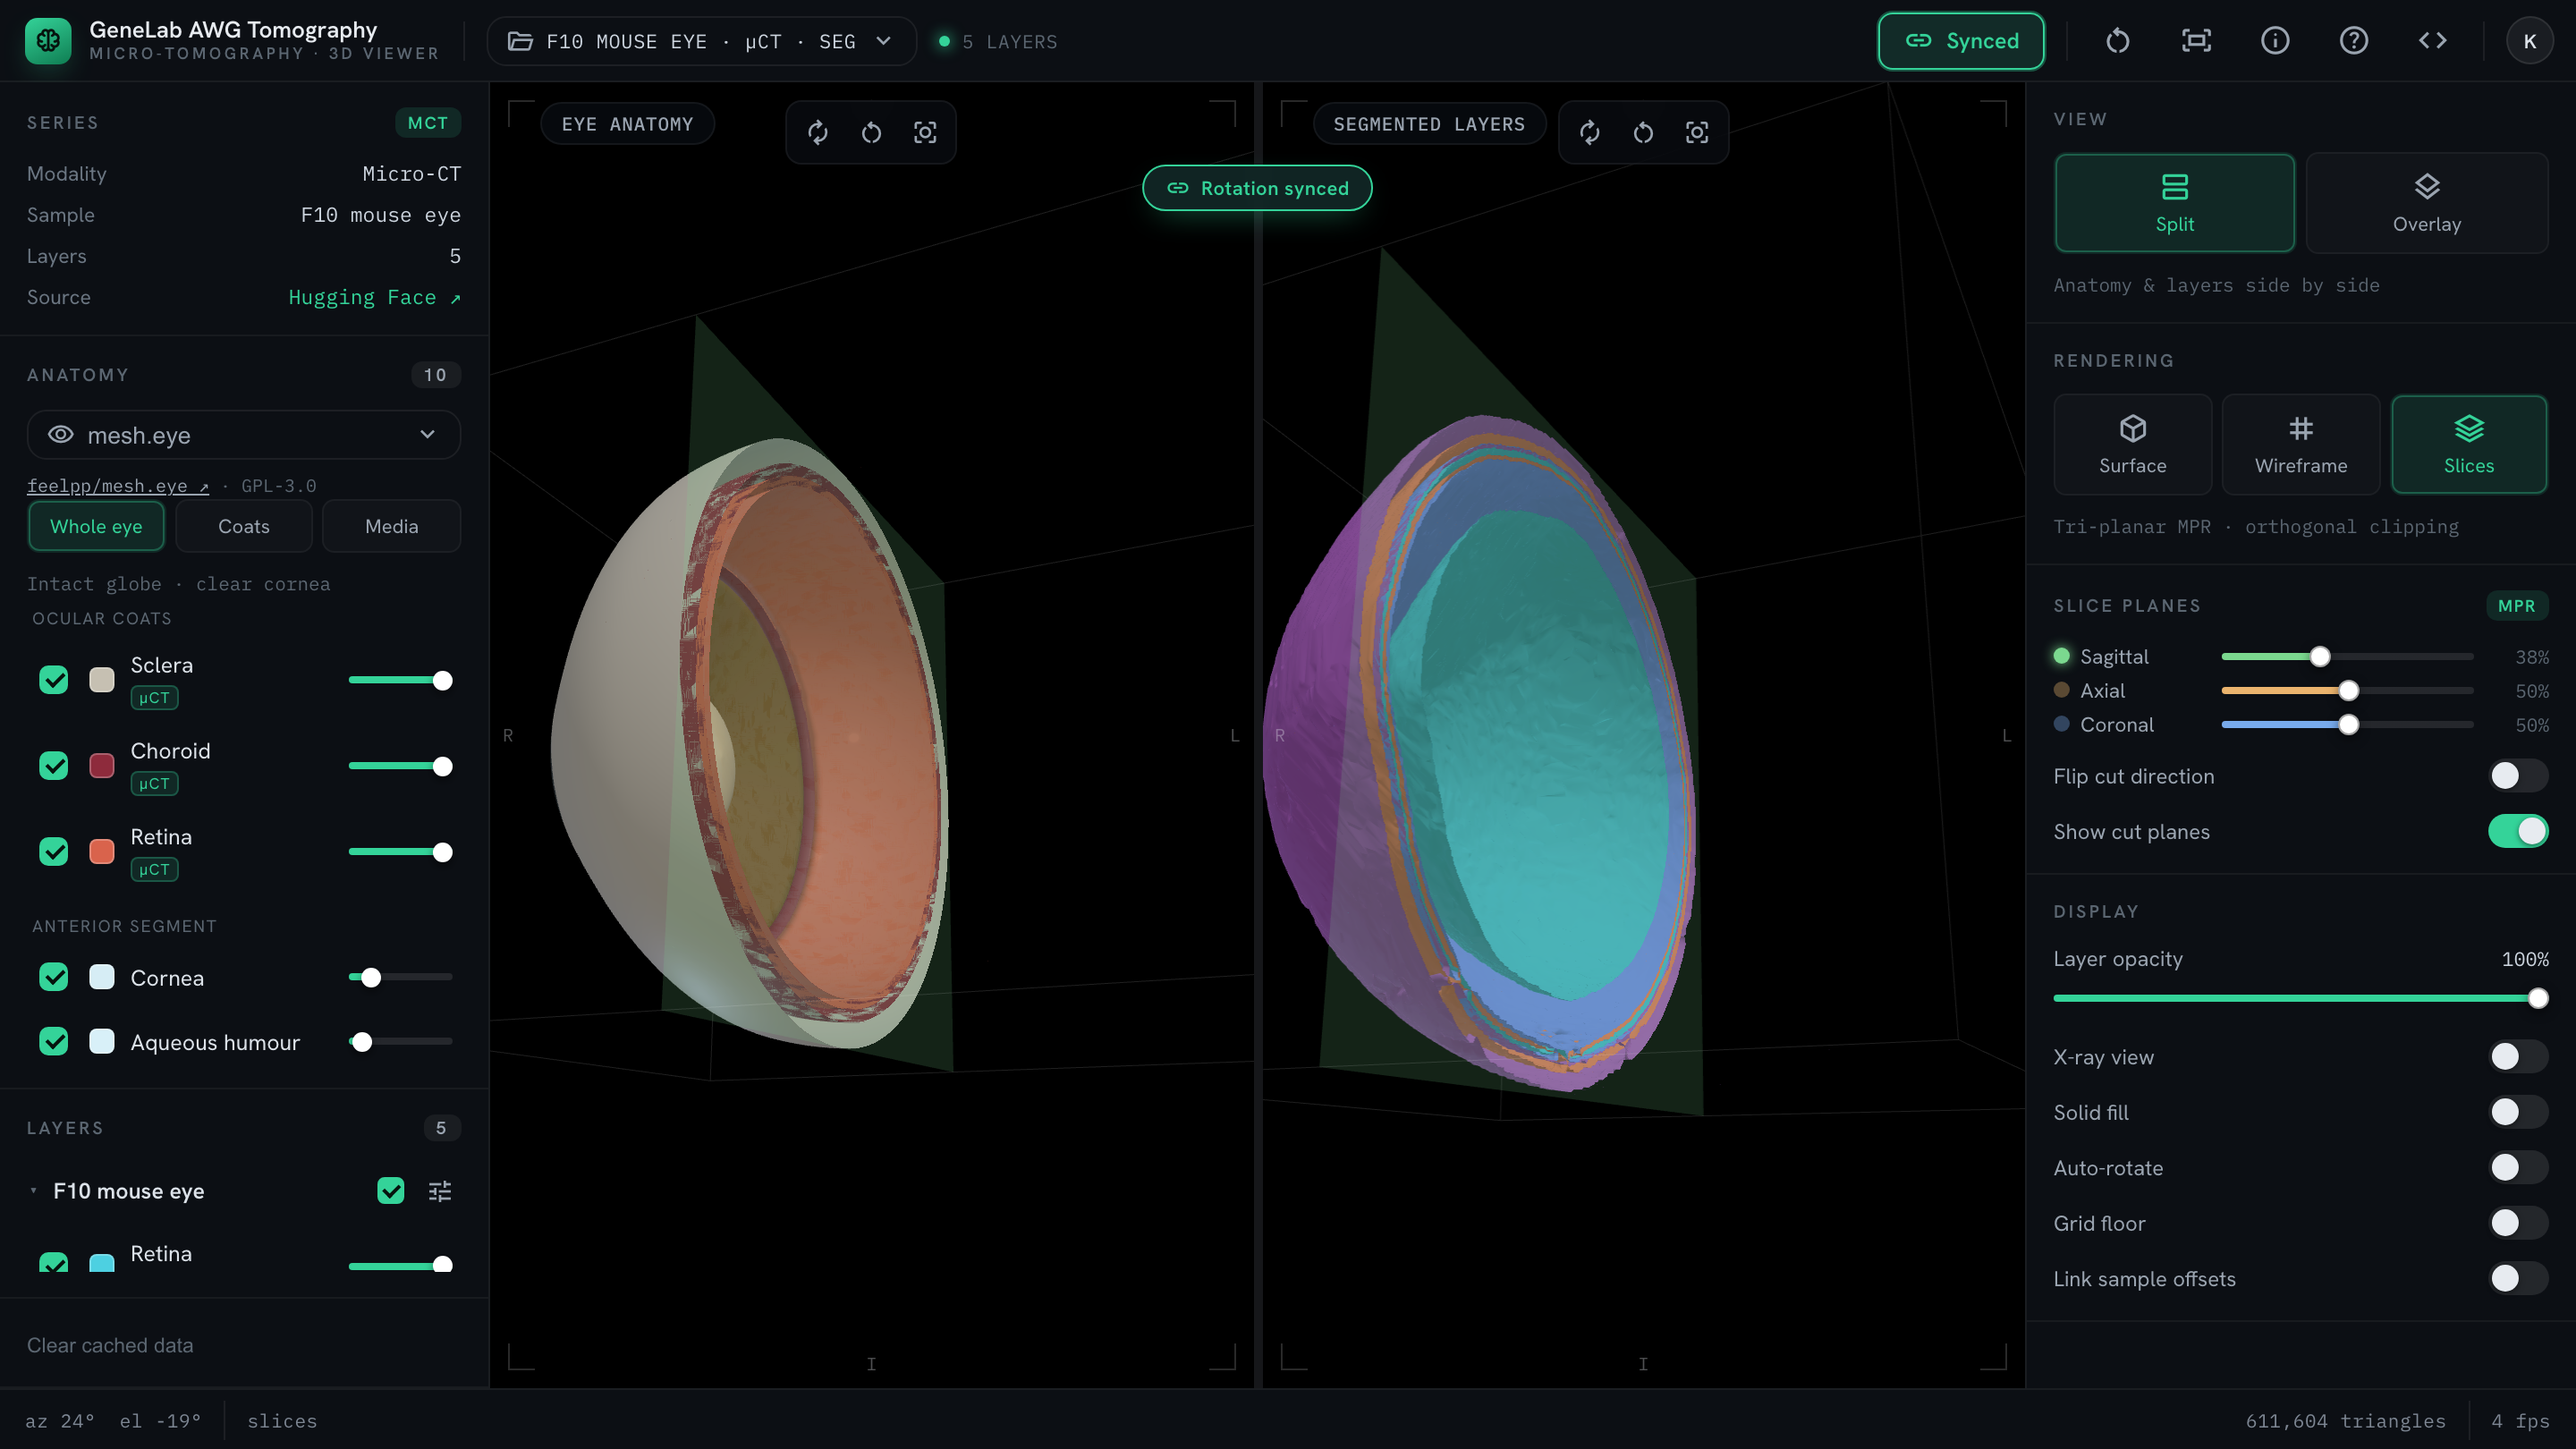
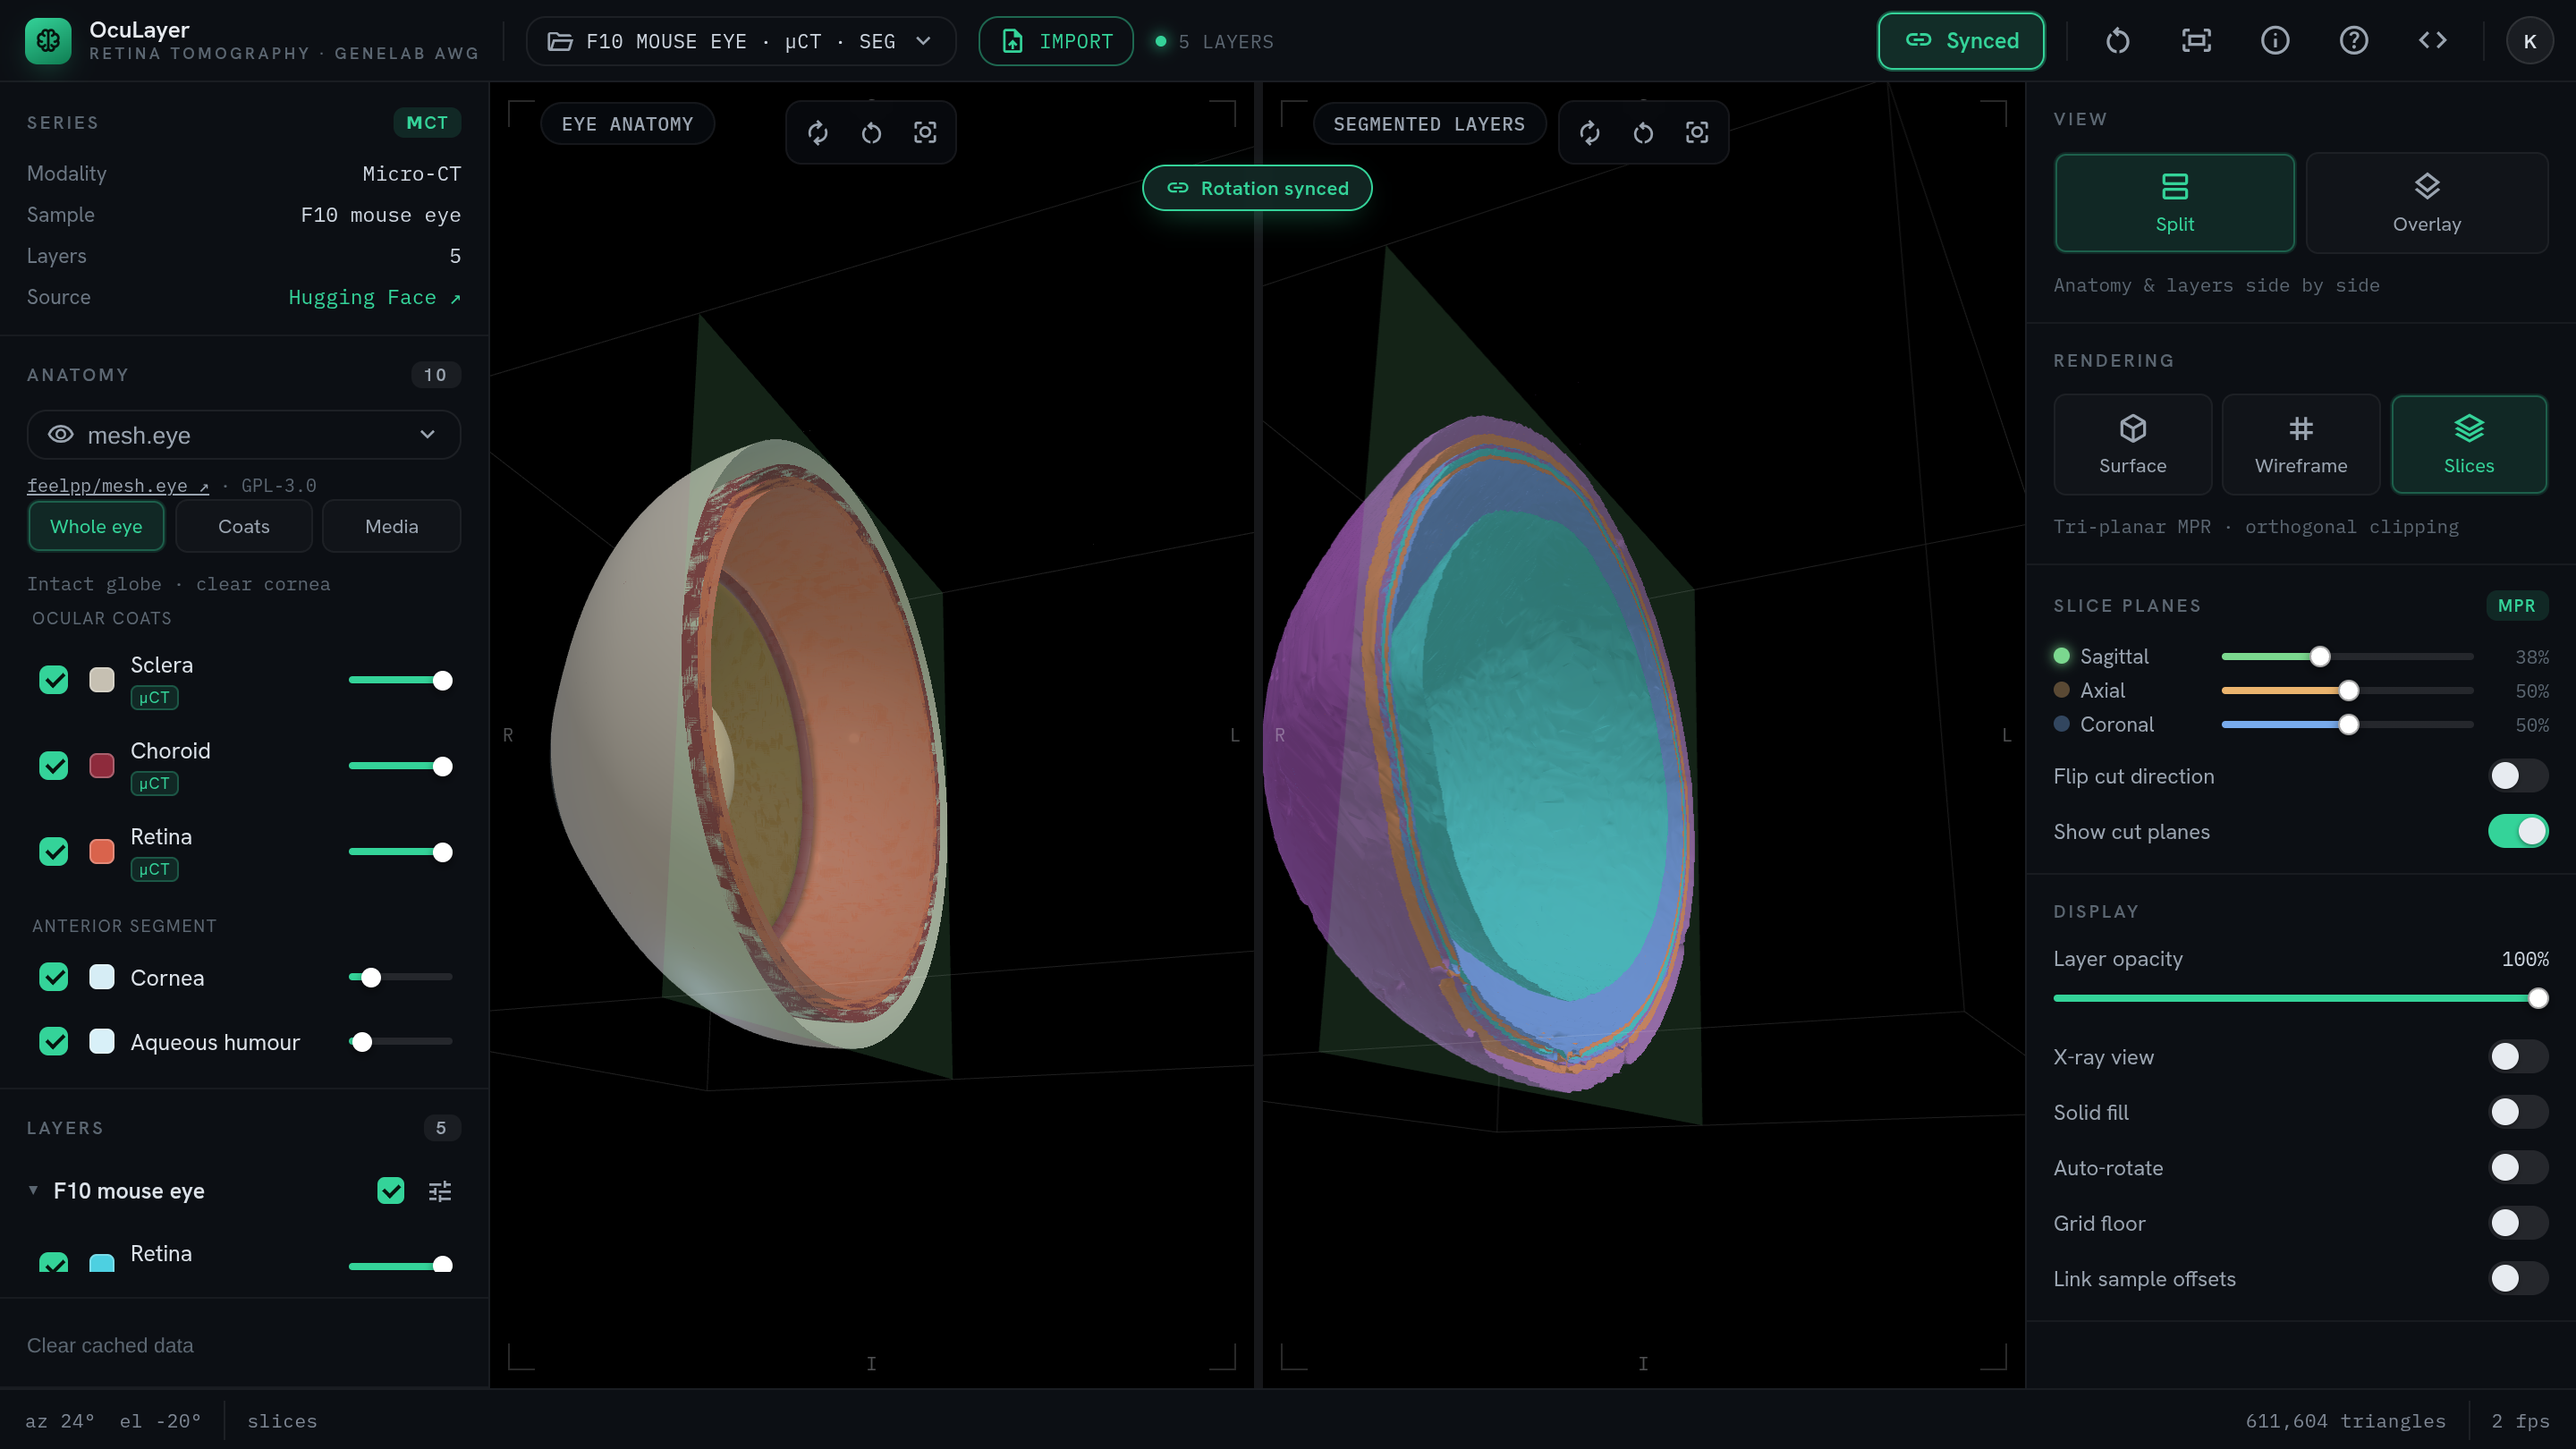
paper: OcuLayer figure, complete AI disclosure, readable table, reference capitals
- figure.png retaken from the current build in the same view as before
  (mesh.eye beside four F10 coats, synced, 38% sagittal cut, az 24 el -20,
  2880x1620), so the top bar shows the OcuLayer name and the Import button.
- AI usage disclosure names Claude Opus 5.5 alongside Opus 5 and Fable 5.1,
  and September and October 2026, since the import feature and this paper
  revision were made with it into October.
- The benchmark table used to wrap "1008.1 MB" and run "feature.stl" into the
  next column in the rendered PDF; shorter headers and values fix that.
- paper.bib protects the capitals the citation style was lowercasing
  ("3D Slicer", "Quantitative Imaging Network", "npj Microgravity", "NASA
  Open Science Data Repository", "meshoptimizer", "three.js") and titles the
  three Zenodo software records by their names instead of their repo slugs.
- One sentence in the research impact statement shortened to stay under the
  1750-word ceiling (1748 words).

Claude-Session: https://claude.ai/code/session_01QDd8yLTgdq26651DEXkFkT

diff --git a/paper.md b/paper.md
@@ -103,10 +103,10 @@ Storage API, so each mesh downloads at most once per browser. `tools/bench` meas
 symmetric point-to-surface distance, area-weighted over both meshes and normalised by the
 bounding-box diagonal:
 
-| Source mesh | Triangles | Size | Shipped | Size reduction | Mean error | p99 | Area change |
+| Mesh | Triangles | Source | Shipped | Reduction | Mean error | p99 | Area |
 |---|---:|---:|---:|---:|---:|---:|---:|
-| `eye.stl` | 21,141,576 | 1008.1 MB | 633 KB | 1631× | 0.017% | 0.062% | +0.63% |
-| `feature.stl` | 3,131,220 | 149.3 MB | 325 KB | 471× | 0.006% | 0.024% | +0.21% |
+| eye | 21.1 M | 1008 MB | 633 KB | 1631× | 0.017% | 0.062% | +0.63% |
+| feature | 3.13 M | 149 MB | 325 KB | 471× | 0.006% | 0.024% | +0.21% |
 
 Discarding 98.5% of `eye.stl`'s triangles moves the surface by 0.017% of the diagonal on average;
 the worst-case (Hausdorff) distances, 3.99% and 1.10%, fall almost entirely in the
@@ -135,8 +135,7 @@ segmented meshes, the CSV manifest, the source reconstruction slices and the ful
 meshes the shipped assets were decimated from are published under MIT at
 <https://huggingface.co/datasets/kush1434/awg_retina_tomography_ui>, so a reader can recompute
 the reduction factors and error bounds above instead of taking them on trust: publishing the
-gigabyte a 633 KB derivative came from is what makes its accuracy claim falsifiable. `tools/bench` samples with a fixed seed so runs are reproducible, and rests on
-distance code cross-checked against brute force in the test suite.
+gigabyte a 633 KB derivative came from is what makes its accuracy claim falsifiable. `tools/bench` uses a fixed seed, so runs are reproducible.
 
 `optimized/anatomy/README.md` is a licence-and-geometry audit of nine entries from eight open
 eye-modelling projects: per-structure triangle counts, volumes and upstream DOIs for the three
@@ -153,8 +152,8 @@ by URL. CI runs both suites and decodes every shipped asset, so a corrupt mesh f
 # AI usage disclosure
 
 Generative AI was used in preparing this submission. The tools were Claude (Anthropic), accessed
-through Claude Code, in September 2026, using Claude Opus 5 (`claude-opus-5`) and Claude Fable 5.1
-(`claude-fable-5-1`).
+through Claude Code, in September and October 2026, using Claude Opus 5 (`claude-opus-5`), Claude
+Fable 5.1 (`claude-fable-5-1`) and Claude Opus 5.5 (`claude-opus-5-5`).
 
 - *The application.* The viewer as it existed before this submission — `viewer.js`, the two
   loaders, the optimisation pipeline and the anatomy-model build scripts, developed between
